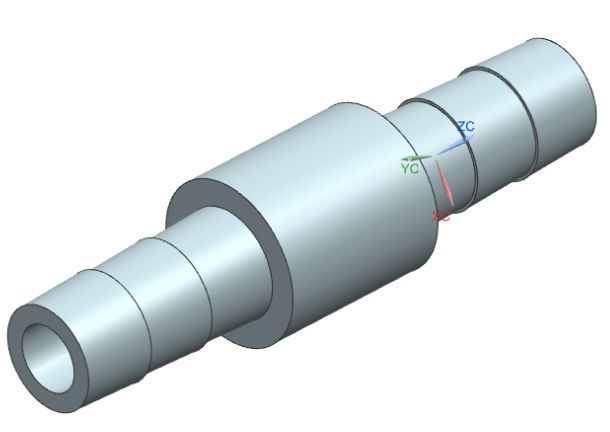
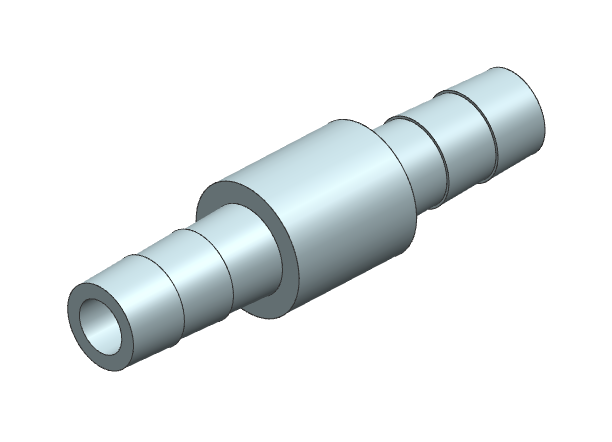
3D model

Changed region(s): [[0.0, 0.0903, 0.9967, 0.963], [0.2803, 0.5718, 0.3115, 0.6019], [0.2492, 0.6019, 0.2803, 0.6319]]

diff --git a/index.html b/index.html
@@ -15,7 +15,7 @@
         <nav>
             <ul>
                 <li><a href="#" class="tab-button active" onclick="openTab(event, 'home')">Home</a></li>
-                <li><a href="#" class="tab-button" onclick="openTab(event, 'shop')">Shop</a></li>
+                <li><a href="#" class="tab-button" onclick="openTab(event, 'shop')">Gallery</a></li>
                 <li><a href="#" class="tab-button" onclick="openTab(event, 'contact')">Contact</a></li>
             </ul>
         </nav>
